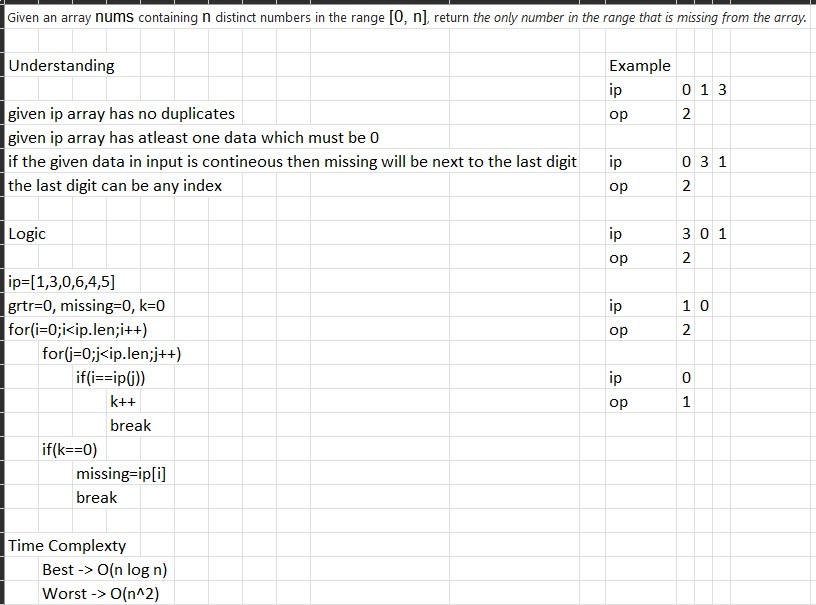
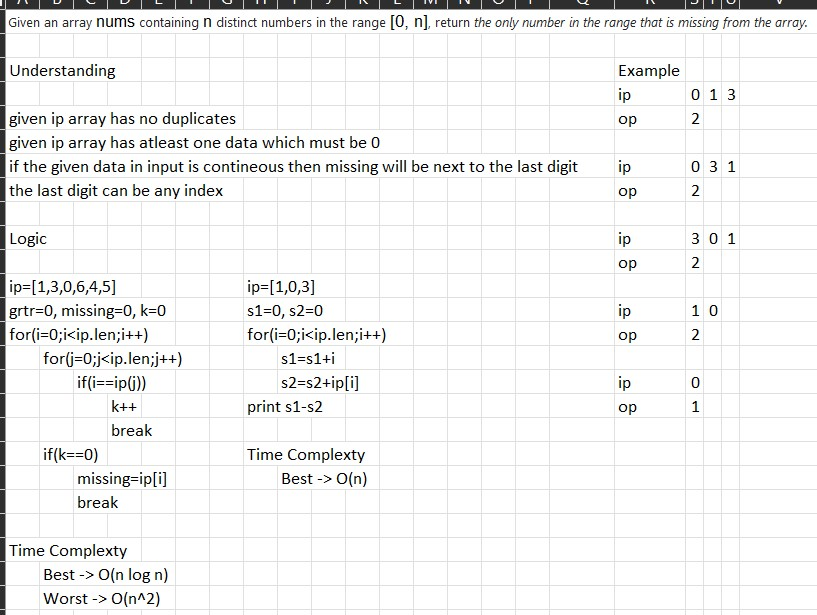
recommit 27th Apr
added new sol

Changed region(s): [[0.0, 0.0, 1.0, 1.0], [0.7353, 0.476, 0.7966, 0.5653], [0.5208, 0.6545, 0.5821, 0.6843]]

diff --git a/weekDayWorkOuts/27thApr2023/MissedNumer/missedNoCode.java b/weekDayWorkOuts/27thApr2023/MissedNumer/missedNoCode.java
@@ -41,5 +41,12 @@ public class missingNumber {
 			}
 		}
 		
+		//Sol - 2
+		int s1=0, s2=0;
+		for(int i=0; i<=n.length; i++) {
+			s1=s1+i;
+			if(i<n.length) s2=s2+n[i];
+		}
+		System.out.println("The missing number is " + (s1-s2));
 	}
 }
